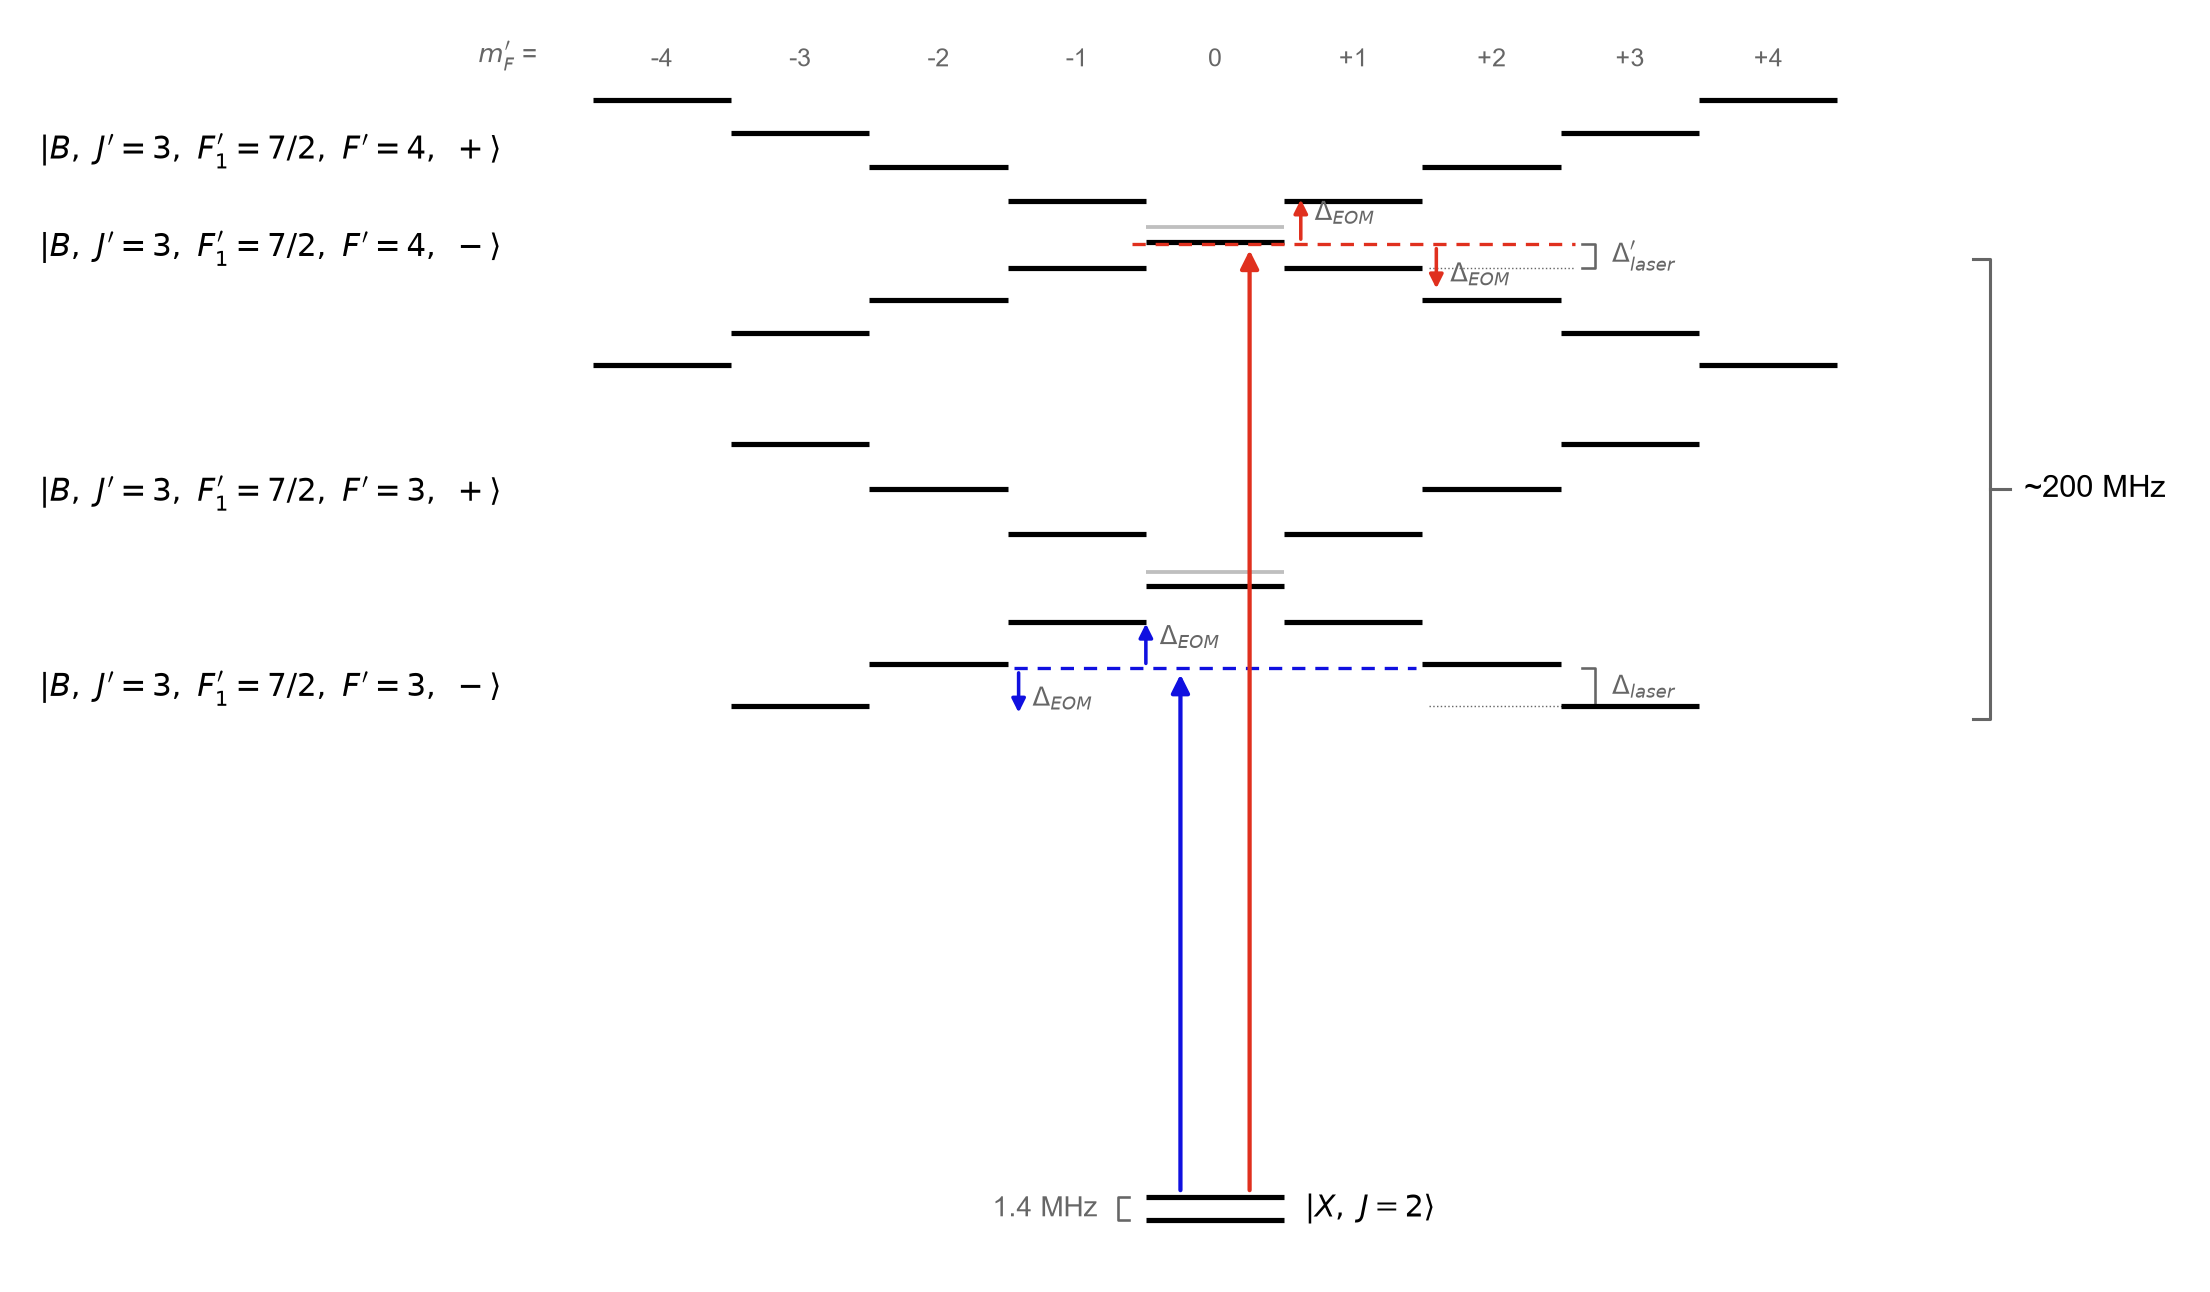
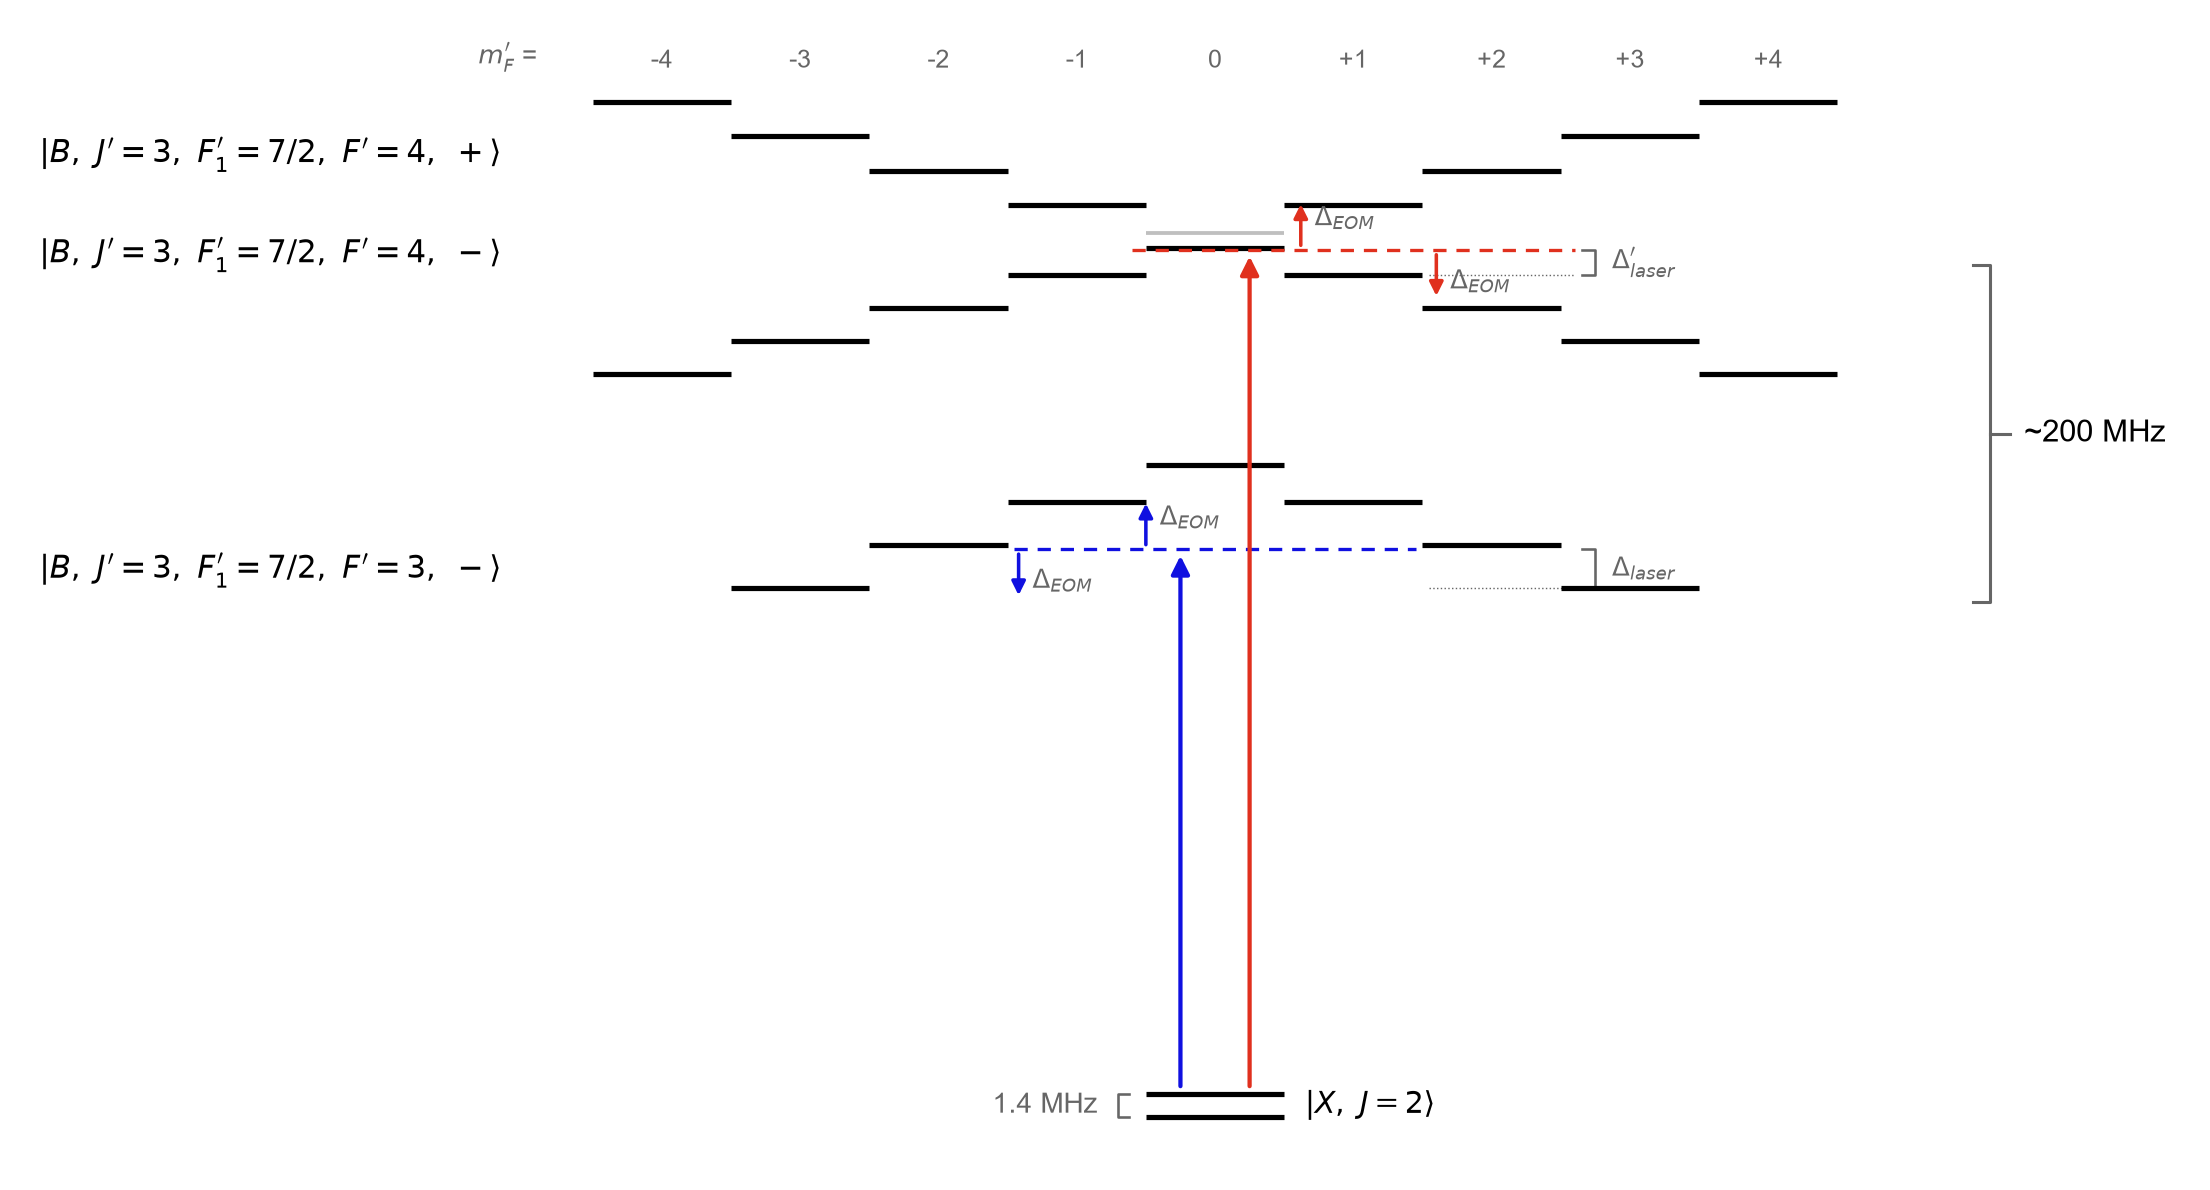
CU2 mF' sketch _Pplus: draw the P'=+ branch for F'=4 only, drop F'=3 P'=+
F'=4 back at the original height above F'=3.

diff --git a/scripts/plot_cu2_mF_sketch.py b/scripts/plot_cu2_mF_sketch.py
@@ -15,7 +15,7 @@ carrier Delta'_laser = delta0 + f_AOM - Delta_main above its main line. Both bea
 +-Delta_EOM = 17.5 MHz (beta = 1.5).
 At the set point (14.5, 209) MHz: blue carrier on mF'=+-2, its +1 order on mF'=+-1; red Delta'_laser = 8.9 MHz,
 carrier on mF'=0 (9.6 MHz), its -1 order near mF'=+-2 (-11.2 MHz).
-With the extra argument `plus` (-> ..._Pplus.{png,pdf}) the P'=+ parent branch is drawn too (simulation keeps it,
+With the extra argument `plus` (-> ..._Pplus.{png,pdf}) the F'=4 P'=+ parent branch is drawn too (simulation keeps it,
 retain_opposite_parity_levels=True). At 217 V/cm every |mF'|>=1 level of both branches is a ~40/60 parity mixture,
 so both branches are driven; mF'=0 stays parity-pure and P'=+ mF'=0 is dark from J=2+ (strength 0.001, light grey).
 At the set point the red +1 order lands on F'=4 P'=+ mF'=+-1 (24.3 MHz), ~29 % of the red-beam excitation.
@@ -36,14 +36,14 @@ plt.rcParams.update({"font.family": "sans-serif", "font.sans-serif": ["Arial", "
                      "mathtext.fontset": "dejavusans"})
 
 BLUE, RED, GREY = "#1010e0", "#e0301e", "0.4"
-PLUS = "plus" in sys.argv[1:]  # also draw the P'=+ (opposite-parity parent) branch
+PLUS = "plus" in sys.argv[1:]  # also draw the F'=4 P'=+ (opposite-parity parent) branch
 NUM = [a for a in sys.argv[1:] if a != "plus"]
 D0, F_AOM = (float(NUM[0]), float(NUM[1])) if len(NUM) > 1 else (14.5, 209.0)
 SFX = "" if (D0, F_AOM) == (14.5, 209.0) else f"_d{D0:g}_f{F_AOM:g}".replace(".", "p")
 SFX += "_Pplus" if PLUS else ""
 F_EOM = 17.5
 U = 0.055                      # drawing units per MHz inside a manifold (compressed)
-Y3, Y4 = (10.0, 18.6) if PLUS else (10.0, 16.0)   # F'=3 and F'=4 main resonances (gap NOT to scale)
+Y3, Y4 = 10.0, 16.0   # F'=3 and F'=4 main resonances (gap NOT to scale)
 W = 1.0                        # bar width = one mF' column
 
 z = np.load(CACHE)
@@ -57,7 +57,7 @@ y3p = {m: Y3 + U * p for m, p in posp[0].items()}
 y4p = {m: Y4 + U * p for m, p in posp[1].items()}
 Y_HDR = (max(y4p.values()) + 0.55) if PLUS else (Y4 + U * (d1 + F_EOM) + 0.75)
 
-fig, ax = plt.subplots(figsize=(13.0, 7.6) if PLUS else (13.0, 6.6))
+fig, ax = plt.subplots(figsize=(13.0, 7.0) if PLUS else (13.0, 6.6))
 ax.set_xlim(-8.6, 6.6)
 ax.set_ylim(-0.9, Y_HDR + 0.9)
 ax.axis("off")
@@ -83,10 +83,10 @@ for m, y in y4.items():
 ax.text(-8.5, Y4 + 0.4, "$|B,\\ J'=3,\\ F_1'=7/2,\\ F'=4,\\ -\\rangle$", fontsize=13, va="center")
 ax.text(-8.5, Y3 + 0.4, "$|B,\\ J'=3,\\ F_1'=7/2,\\ F'=3,\\ -\\rangle$", fontsize=13, va="center")
 if PLUS:                                           # P'=+ parent branch (Stark-mixed Lambda doublet partner)
-    for yy in (y3p, y4p):
+    for yy in (y4p,):
         for m, y in yy.items():          # mF'=0 stays pure P=+ (no Stark mixing): dark from J=2+, light grey
             bar(m, y, lw=1.6 if m == 0 else 2.2, c="0.75" if m == 0 else "k")
-    for F, yy in ((3, y3p), (4, y4p)):
+    for F, yy in ((4, y4p),):
         ax.text(-8.5, np.mean(list(yy.values())) + 0.15,
                 f"$|B,\\ J'=3,\\ F_1'=7/2,\\ F'={F},\\ +\\rangle$", fontsize=13, va="center")
 for m in range(-4, 5):
